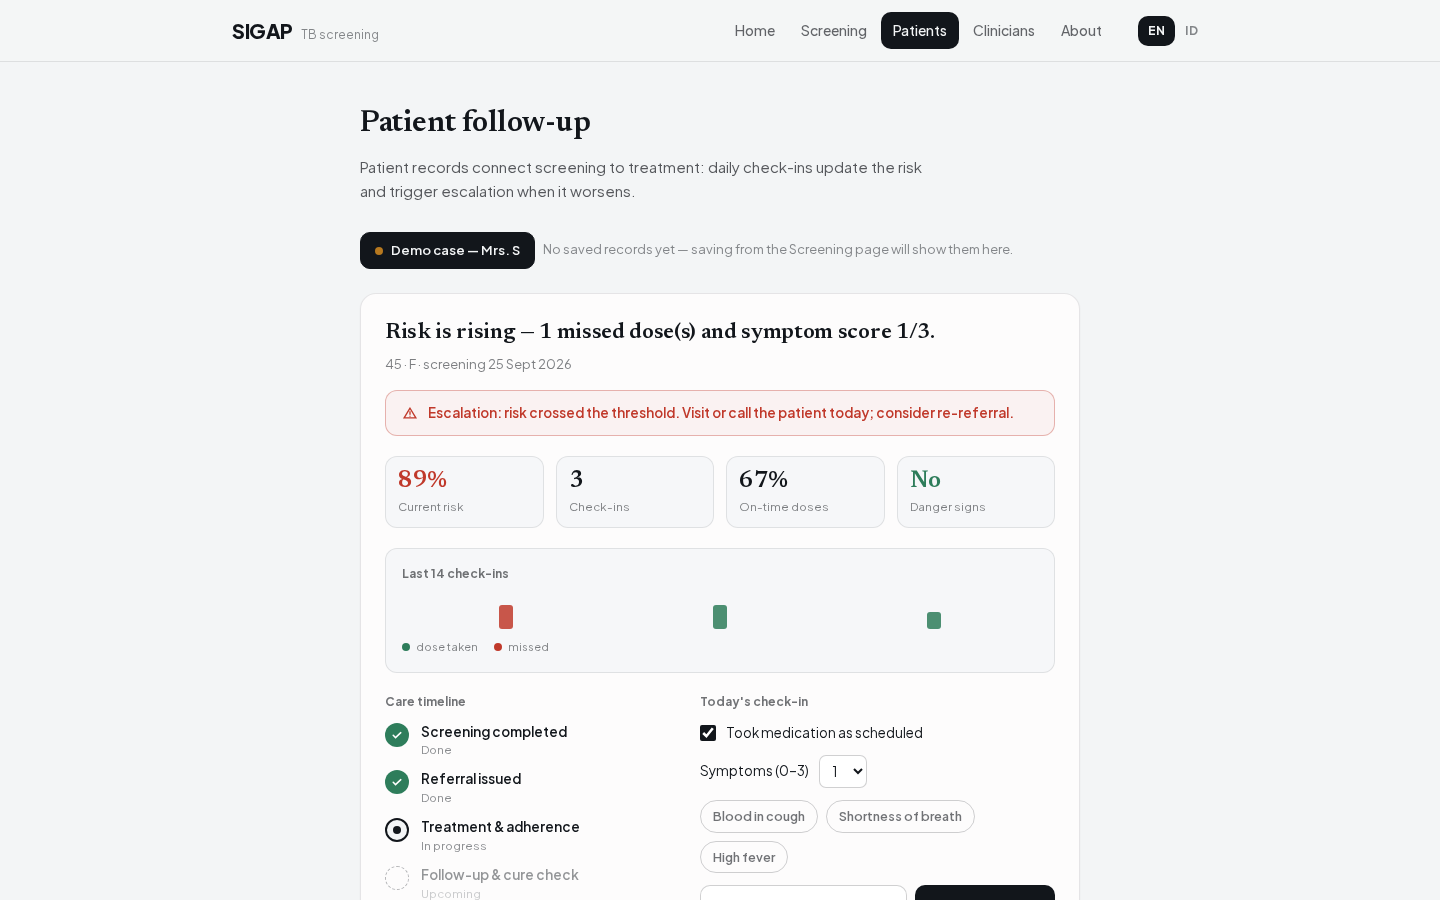
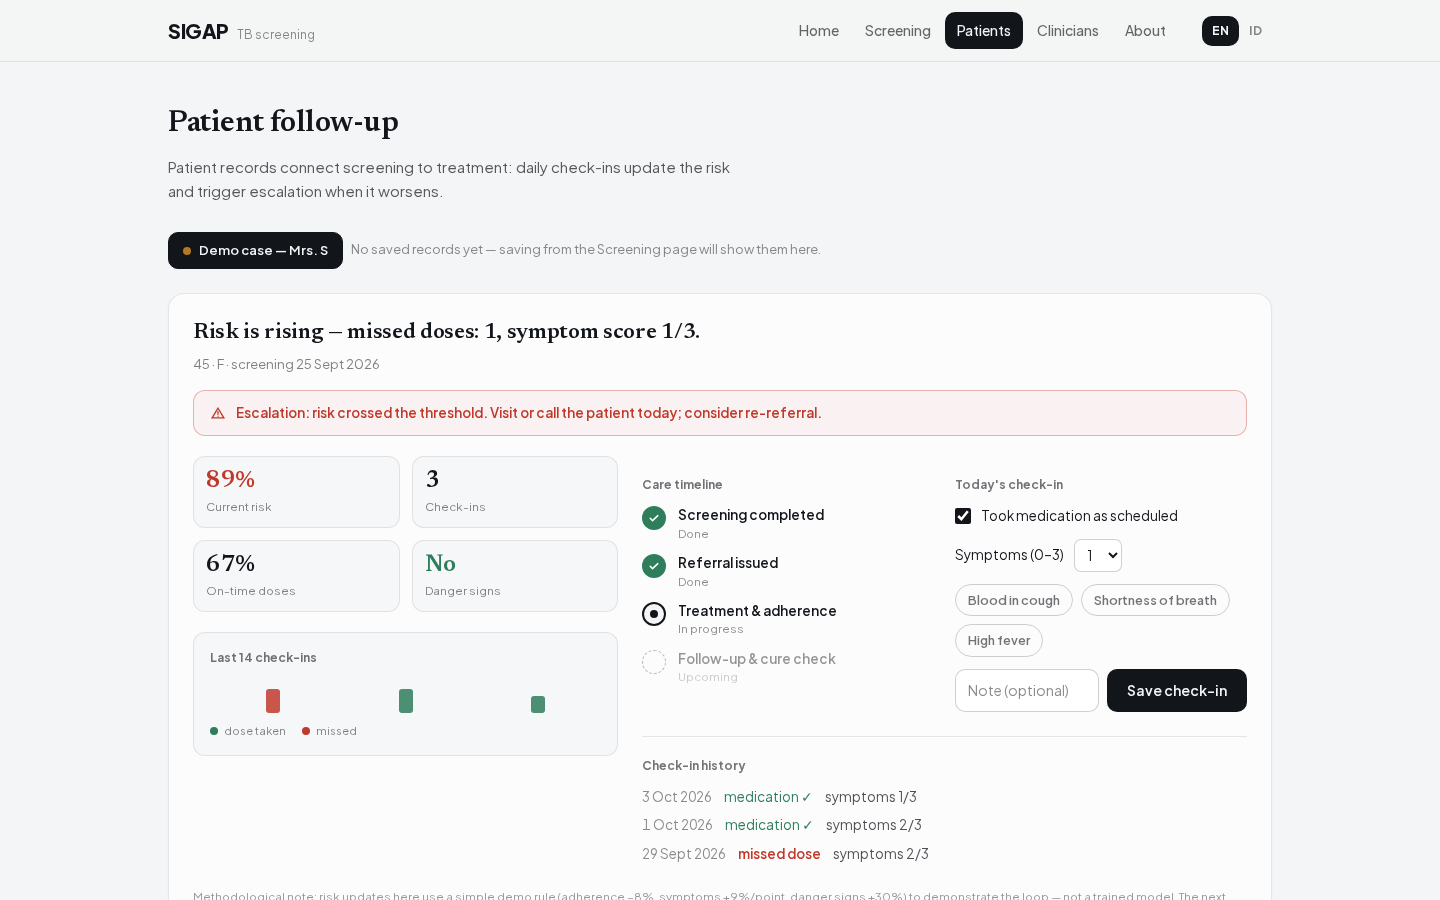
feat(web): layout web-first responsif — workspace skrining 2 kolom (form kiri, rail hasil/galeri kanan), dashboard pasien 5/7, rail klinisi, container max-w-6xl; tool screenshot klinisi terisi

diff --git a/web/src/components/ScreeningFlow.tsx b/web/src/components/ScreeningFlow.tsx
@@ -248,9 +248,11 @@ export default function ScreeningFlow() {
           <p className="mt-2 max-w-xl text-[15px] leading-relaxed text-ink/70">{t("scr.sub")}</p>
         </section>
 
-        {/* Galeri contoh arsip */}
+        <div className="lg:grid lg:grid-cols-12 lg:items-start lg:gap-8">
+          <div className="lg:col-span-5">
+        {/* Galeri contoh arsip (mobile: di atas; desktop: rail kanan) */}
         {gallery.length > 0 && (
-          <section className="mt-8 rounded-panel border border-ink/10 bg-white/60 p-4 shadow-tile sm:p-5">
+          <section className="mt-8 rounded-panel border border-ink/10 bg-white/60 p-4 shadow-tile sm:p-5 lg:hidden">
             <h2 className="text-[15px] font-bold">{t("scr.gallery.title")}</h2>
             <p className="mt-1 text-[13px] leading-relaxed text-ink/60">{t("scr.gallery.desc")}</p>
             <div className="mt-3 grid gap-2 sm:grid-cols-2">
@@ -406,7 +408,7 @@ export default function ScreeningFlow() {
             type="button"
             onClick={analyze}
             disabled={!file || loading}
-            className="w-full rounded-control bg-ink px-6 py-3.5 text-[15px] font-semibold text-paper shadow-tile transition-all hover:-translate-y-0.5 hover:bg-ink/90 disabled:cursor-not-allowed disabled:opacity-40 disabled:hover:translate-y-0 sm:w-auto"
+            className="w-full whitespace-nowrap rounded-control bg-ink px-6 py-3.5 text-[15px] font-semibold text-paper shadow-tile transition-all hover:-translate-y-0.5 hover:bg-ink/90 disabled:cursor-not-allowed disabled:opacity-40 disabled:hover:translate-y-0 sm:w-auto"
           >
             {loading ? t("scr.analyzing") : t("scr.analyze")}
           </button>
@@ -428,10 +430,49 @@ export default function ScreeningFlow() {
             {error}
           </p>
         )}
+          </div>
 
-        {/* Hasil */}
+          {/* Rail kanan (desktop): galeri saat kosong, hasil setelah analisis */}
+          <div className="lg:col-span-7">
+        {(!result || !meta) && gallery.length > 0 && (
+          <section className="mt-8 hidden rounded-panel border border-ink/10 bg-white/60 p-4 shadow-tile sm:p-5 lg:mt-9 lg:block">
+            <h2 className="text-[15px] font-bold">{t("scr.gallery.title")}</h2>
+            <p className="mt-1 text-[13px] leading-relaxed text-ink/60">{t("scr.gallery.desc")}</p>
+            <div className="mt-3 grid gap-2 sm:grid-cols-2">
+              {gallery.map((c) => {
+                const key = CASE_KEY[c.id];
+                const title = key ? t(`scr.case.${key}.title`) : c.title;
+                const desc = key ? t(`scr.case.${key}.desc`) : c.desc;
+                const dot = c.band === "rujuk_prioritas" ? "bg-refer" : c.band === "negatif_skrining" ? "bg-clear" : "bg-defer";
+                return (
+                  <button
+                    key={c.id}
+                    type="button"
+                    onClick={() => openCase(c)}
+                    aria-pressed={caseId === c.id}
+                    className={`rounded-tile border p-3 text-left transition-all hover:-translate-y-0.5 hover:shadow-tile ${
+                      caseId === c.id ? "border-ink bg-ink/5" : "border-ink/15 bg-paper/60 hover:border-ink/40"
+                    }`}
+                  >
+                    <span className="flex items-center gap-2 text-[13px] font-semibold">
+                      <span className={`inline-block h-2 w-2 rounded-full ${dot}`} />
+                      {title}
+                    </span>
+                    <span className="mt-1 block text-[12px] leading-relaxed text-ink/60">{desc}</span>
+                  </button>
+                );
+              })}
+            </div>
+          </section>
+        )}
+        {(!result || !meta) && (
+          <div className="mt-6 hidden rounded-panel border border-dashed border-ink/20 bg-film/[0.03] px-6 py-12 text-center lg:block">
+            <div className="mx-auto h-2.5 w-52 overflow-hidden rounded-full bg-[linear-gradient(90deg,#2e7d5b_0%,#2e7d5b_2%,#b7791f_10%,#c0392b_30%,#c0392b_100%)] opacity-70" />
+            <p className="mt-4 text-[14px] font-semibold text-ink/60">{t("scr.resultPlaceholder")}</p>
+          </div>
+        )}
         {result && meta && (
-          <section className="reveal mt-10" aria-live="polite">
+          <section className="reveal mt-10 lg:mt-9" aria-live="polite">
             <h2 className="text-[15px] font-bold">{t("scr.result")}</h2>
             <div className="mt-4 overflow-hidden rounded-panel bg-film text-bone shadow-float">
               <div className="relative aspect-[4/3]">
@@ -536,6 +577,8 @@ export default function ScreeningFlow() {
             </div>
           </section>
         )}
+          </div>
+        </div>
       </div>
 
       {/* Surat rujukan (hanya saat cetak) */}

diff --git a/web/src/app/pasien/page.tsx b/web/src/app/pasien/page.tsx
@@ -135,7 +135,7 @@ export default function PasienPage() {
   }
 
   return (
-    <main className="mx-auto max-w-3xl px-4 sm:px-6">
+    <main className="mx-auto max-w-6xl px-4 sm:px-6">
       <section className="pt-10">
         <h1 className="font-display text-[30px] font-semibold tracking-tight">{t("pat.title")}</h1>
         <p className="mt-2 max-w-xl text-[15px] leading-relaxed text-ink/70">{t("pat.sub")}</p>
@@ -181,8 +181,10 @@ export default function PasienPage() {
           </p>
         )}
 
+        <div className="lg:mt-5 lg:grid lg:grid-cols-12 lg:gap-6">
+          <div className="lg:col-span-5">
         {/* Stat tiles */}
-        <div className="mt-5 grid grid-cols-2 gap-3 sm:grid-cols-4">
+        <div className="mt-5 grid grid-cols-2 gap-3 sm:grid-cols-4 lg:mt-0 lg:grid-cols-2">
           {[
             [fmtPct(risk), t("pat.stat.risk"), risk >= 0.61 ? "text-refer" : risk >= 0.3 ? "text-defer" : "text-clear"],
             [String(selected.history.length), t("pat.stat.checkins"), ""],
@@ -221,9 +223,11 @@ export default function PasienPage() {
             </div>
           </div>
         )}
+        </div>
 
+        <div className="lg:col-span-7">
         {/* Timeline perawatan */}
-        <div className="mt-5 grid gap-5 sm:grid-cols-[1fr_1.2fr]">
+        <div className="mt-5 grid gap-5 sm:grid-cols-[1fr_1.2fr] lg:grid-cols-2">
           <div>
             <p className="text-[12px] font-bold text-ink/60">{t("pat.timeline.title")}</p>
             <ol className="mt-3 space-y-3">
@@ -325,6 +329,8 @@ export default function PasienPage() {
             </ul>
           </div>
         )}
+        </div>
+        </div>
 
         <p className="mt-6 text-[11.5px] leading-relaxed text-ink/45">{t("pat.note")}</p>
       </section>

diff --git a/web/src/app/klinisi/page.tsx b/web/src/app/klinisi/page.tsx
@@ -40,7 +40,7 @@ export default function KlinisiPage() {
   const dangerList = selected?.history.flatMap((h) => h.danger).slice(0, 3) ?? [];
 
   return (
-    <main className="mx-auto max-w-3xl px-4 sm:px-6">
+    <main className="mx-auto max-w-6xl px-4 sm:px-6">
       <section className="pt-10 print:hidden">
         <h1 className="font-display text-[30px] font-semibold tracking-tight">{t("cli.title")}</h1>
         <p className="mt-2 max-w-xl text-[15px] leading-relaxed text-ink/70">{t("cli.sub")}</p>
@@ -52,14 +52,15 @@ export default function KlinisiPage() {
         </p>
       ) : (
         <>
-          <div className="mt-8 flex flex-wrap gap-2 print:hidden">
+          <div className="lg:grid lg:grid-cols-[250px_1fr] lg:items-start lg:gap-8">
+          <div className="mt-8 flex flex-wrap gap-2 print:hidden lg:flex-col lg:flex-nowrap">
             {cases.map((c) => (
               <button
                 key={c.id}
                 type="button"
                 onClick={() => setSelectedId(c.id)}
                 aria-pressed={selectedId === c.id}
-                className={`rounded-control border px-3.5 py-2 text-[13px] font-semibold transition-colors ${
+                className={`rounded-control border px-3.5 py-2 text-[13px] font-semibold transition-colors lg:w-full lg:text-left ${
                   selectedId === c.id ? "border-ink bg-ink text-paper" : "border-ink/20 bg-white/60 hover:border-ink/45"
                 }`}
               >
@@ -129,6 +130,7 @@ export default function KlinisiPage() {
               <p className="mt-6 text-[11.5px] leading-relaxed text-ink/45">{t("cli.note")}</p>
             </section>
           )}
+          </div>
         </>
       )}
     </main>

diff --git a/web/src/lib/i18n.tsx b/web/src/lib/i18n.tsx
@@ -65,6 +65,7 @@ const DICT: Record<Lang, Record<string, string>> = {
     "scr.gallery.title": "Archive examples — no server",
     "scr.gallery.desc":
       "Four real cases from the external NLM corpus with outputs from the same final ensemble, computed offline — try the full flow without an API connection.",
+    "scr.resultPlaceholder": "Your triage result will appear here after analysis.",
     "scr.case.a.title": "Case A — Active TB",
     "scr.case.a.desc": "Ensemble agrees: refer today.",
     "scr.case.b.title": "Case B — Normal, unseen hospital",
@@ -296,6 +297,7 @@ const DICT: Record<Lang, Record<string, string>> = {
     "scr.gallery.title": "Contoh arsip — tanpa server",
     "scr.gallery.desc":
       "Empat kasus nyata dari korpus eksternal NLM dengan keluaran ensemble final yang sama, dihitung offline — coba alur lengkap tanpa koneksi API.",
+    "scr.resultPlaceholder": "Hasil triase akan muncul di sini setelah analisis.",
     "scr.case.a.title": "Kasus A — TB aktif",
     "scr.case.a.desc": "Ensemble sepakat: prioritas rujukan hari ini.",
     "scr.case.b.title": "Kasus B — normal dari RS asing",

diff --git a/web/src/app/tentang/page.tsx b/web/src/app/tentang/page.tsx
@@ -9,7 +9,7 @@ export default function TentangPage() {
   const { t } = useLang();
 
   return (
-    <main className="mx-auto max-w-3xl px-4 sm:px-6">
+    <main className="mx-auto max-w-4xl px-4 sm:px-6">
       <section className="pt-12">
         <p className="text-[12.5px] font-semibold tracking-wide text-ink/45">{t("landing.kicker")}</p>
         <h1 className="font-display mt-3 text-[34px] font-semibold leading-tight tracking-tight">{t("ab.title")}</h1>
@@ -30,7 +30,7 @@ export default function TentangPage() {
 
       <section className="mt-12">
         <h2 className="font-display text-[24px] font-semibold">{t("ab.rigor.title")}</h2>
-        <div className="mt-5 grid gap-3">
+        <div className="mt-5 grid gap-3 lg:grid-cols-3">
           {[1, 2, 3].map((n) => (
             <div key={n} className="flex items-start gap-3 rounded-tile border border-ink/10 bg-white/70 p-4 shadow-tile">
               <svg viewBox="0 0 24 24" className="mt-0.5 h-4 w-4 shrink-0 text-clear" fill="none" stroke="currentColor" strokeWidth="2.2" strokeLinecap="round">

diff --git a/web/src/components/SiteHeader.tsx b/web/src/components/SiteHeader.tsx
@@ -18,7 +18,7 @@ export default function SiteHeader() {
 
   return (
     <header className="no-print sticky top-0 z-40 border-b border-ink/10 bg-paper/95 backdrop-blur-sm">
-      <div className="mx-auto flex max-w-5xl items-center gap-3 px-4 py-2.5 sm:px-6 sm:py-3">
+      <div className="mx-auto flex max-w-6xl items-center gap-3 px-4 py-2.5 sm:px-6 sm:py-3">
         <Link href="/" className="flex shrink-0 items-baseline gap-2">
           <span className="text-[19px] font-extrabold tracking-tight sm:text-[20px]">SIGAP</span>
           <span className="hidden text-[12px] text-ink/50 sm:block">{t("sfx.tagline")}</span>

diff --git a/web/src/components/SiteFooter.tsx b/web/src/components/SiteFooter.tsx
@@ -6,7 +6,7 @@ export default function SiteFooter() {
   const { t } = useLang();
   return (
     <footer className="no-print mt-16 border-t border-ink/10">
-      <div className="mx-auto flex max-w-5xl flex-col gap-2 px-4 py-8 text-[13px] leading-relaxed text-ink/55 sm:px-6">
+      <div className="mx-auto flex max-w-6xl flex-col gap-2 px-4 py-8 text-[13px] leading-relaxed text-ink/55 sm:px-6">
         <p className="max-w-3xl">{t("footer.text")}</p>
         <p>
           <a

diff --git a/web/src/app/page.tsx b/web/src/app/page.tsx
@@ -19,7 +19,7 @@ export default function Home() {
   const todoList = ["1", "2", "3"].map((n) => t(`landing.evidence.todo.${n}`));
 
   return (
-    <main className="mx-auto max-w-5xl px-4 sm:px-6">
+    <main className="mx-auto max-w-6xl px-4 sm:px-6">
       {/* Hero */}
       <section className="grid gap-10 pt-12 pb-14 lg:grid-cols-12 lg:gap-8 lg:pt-16">
         <div className="lg:col-span-5">

diff --git a/web/src/app/skrining/page.tsx b/web/src/app/skrining/page.tsx
@@ -7,7 +7,7 @@ export const metadata: Metadata = {
 
 export default function SkriningPage() {
   return (
-    <main className="mx-auto max-w-3xl px-4 sm:px-6">
+    <main className="mx-auto max-w-6xl px-4 sm:px-6">
       <ScreeningFlow />
     </main>
   );

diff --git a/tools/klinisi_shot.py b/tools/klinisi_shot.py
@@ -1,0 +1,53 @@
+#!/usr/bin/env python3
+"""Screenshot halaman klinisi dalam keadaan TERISI (seed localStorage) — desktop & mobile.
+
+  .venv/bin/python tools/klinisi_shot.py <BASE_URL>
+"""
+from __future__ import annotations
+
+import json
+import sys
+from pathlib import Path
+
+from playwright.sync_api import sync_playwright
+
+BASE = sys.argv[1] if len(sys.argv) > 1 else "http://localhost:3210"
+OUT = Path("submission/screenshots")
+CASE = [
+    {
+        "id": "seed-1",
+        "date": "2026-10-03T08:00:00.000Z",
+        "name": "S-014",
+        "age": "42",
+        "sex": "L",
+        "p": 0.9937,
+        "band": "rujuk_prioritas",
+        "history": [
+            {"date": "2026-10-04T08:00:00.000Z", "med": True, "symptoms": 1, "danger": []},
+            {"date": "2026-10-03T08:00:00.000Z", "med": False, "symptoms": 2, "danger": ["Shortness of breath"]},
+        ],
+    }
+]
+
+
+def main() -> None:
+    seed = f"localStorage.setItem('sigap.cases', {json.dumps(json.dumps(CASE))});"
+    with sync_playwright() as p:
+        b = p.chromium.launch(headless=True)
+        for vp, w, h, ds in (("desktop", 1440, 900, 1), ("mobile", 390, 844, 2)):
+            ctx = b.new_context(viewport={"width": w, "height": h}, device_scale_factor=ds)
+            ctx.add_init_script(seed)
+            page = ctx.new_page()
+            page.goto(f"{BASE}/klinisi", wait_until="networkidle")
+            page.wait_for_selector("text=Clinician summary", timeout=30_000)
+            page.wait_for_selector("text=S-014", timeout=15_000)
+            page.wait_for_timeout(400)
+            page.screenshot(path=str(OUT / f"klinisi_filled_{vp}.png"), full_page=True)
+            print("ok", vp)
+            ctx.close()
+        b.close()
+    print("KLINISI SHOT DONE")
+
+
+if __name__ == "__main__":
+    main()
